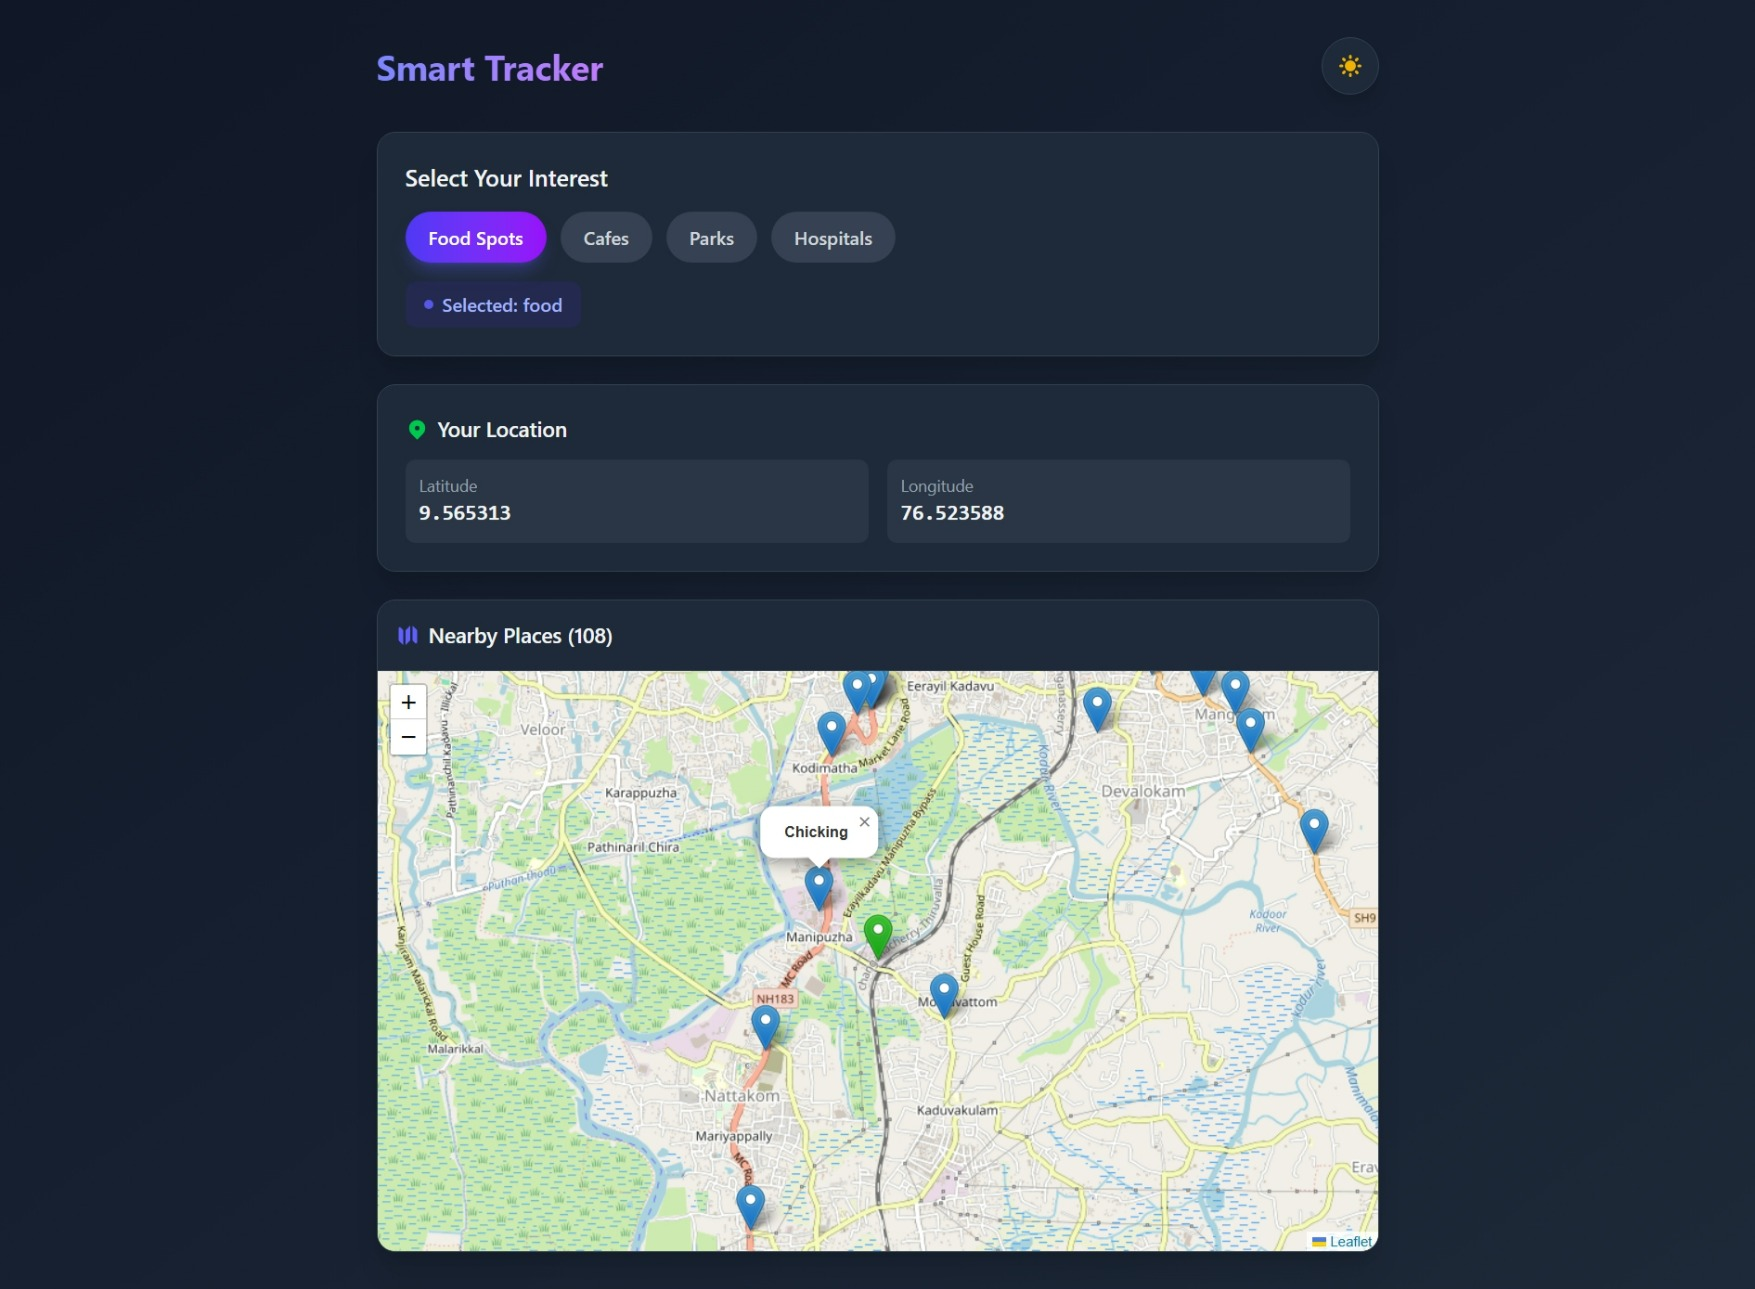
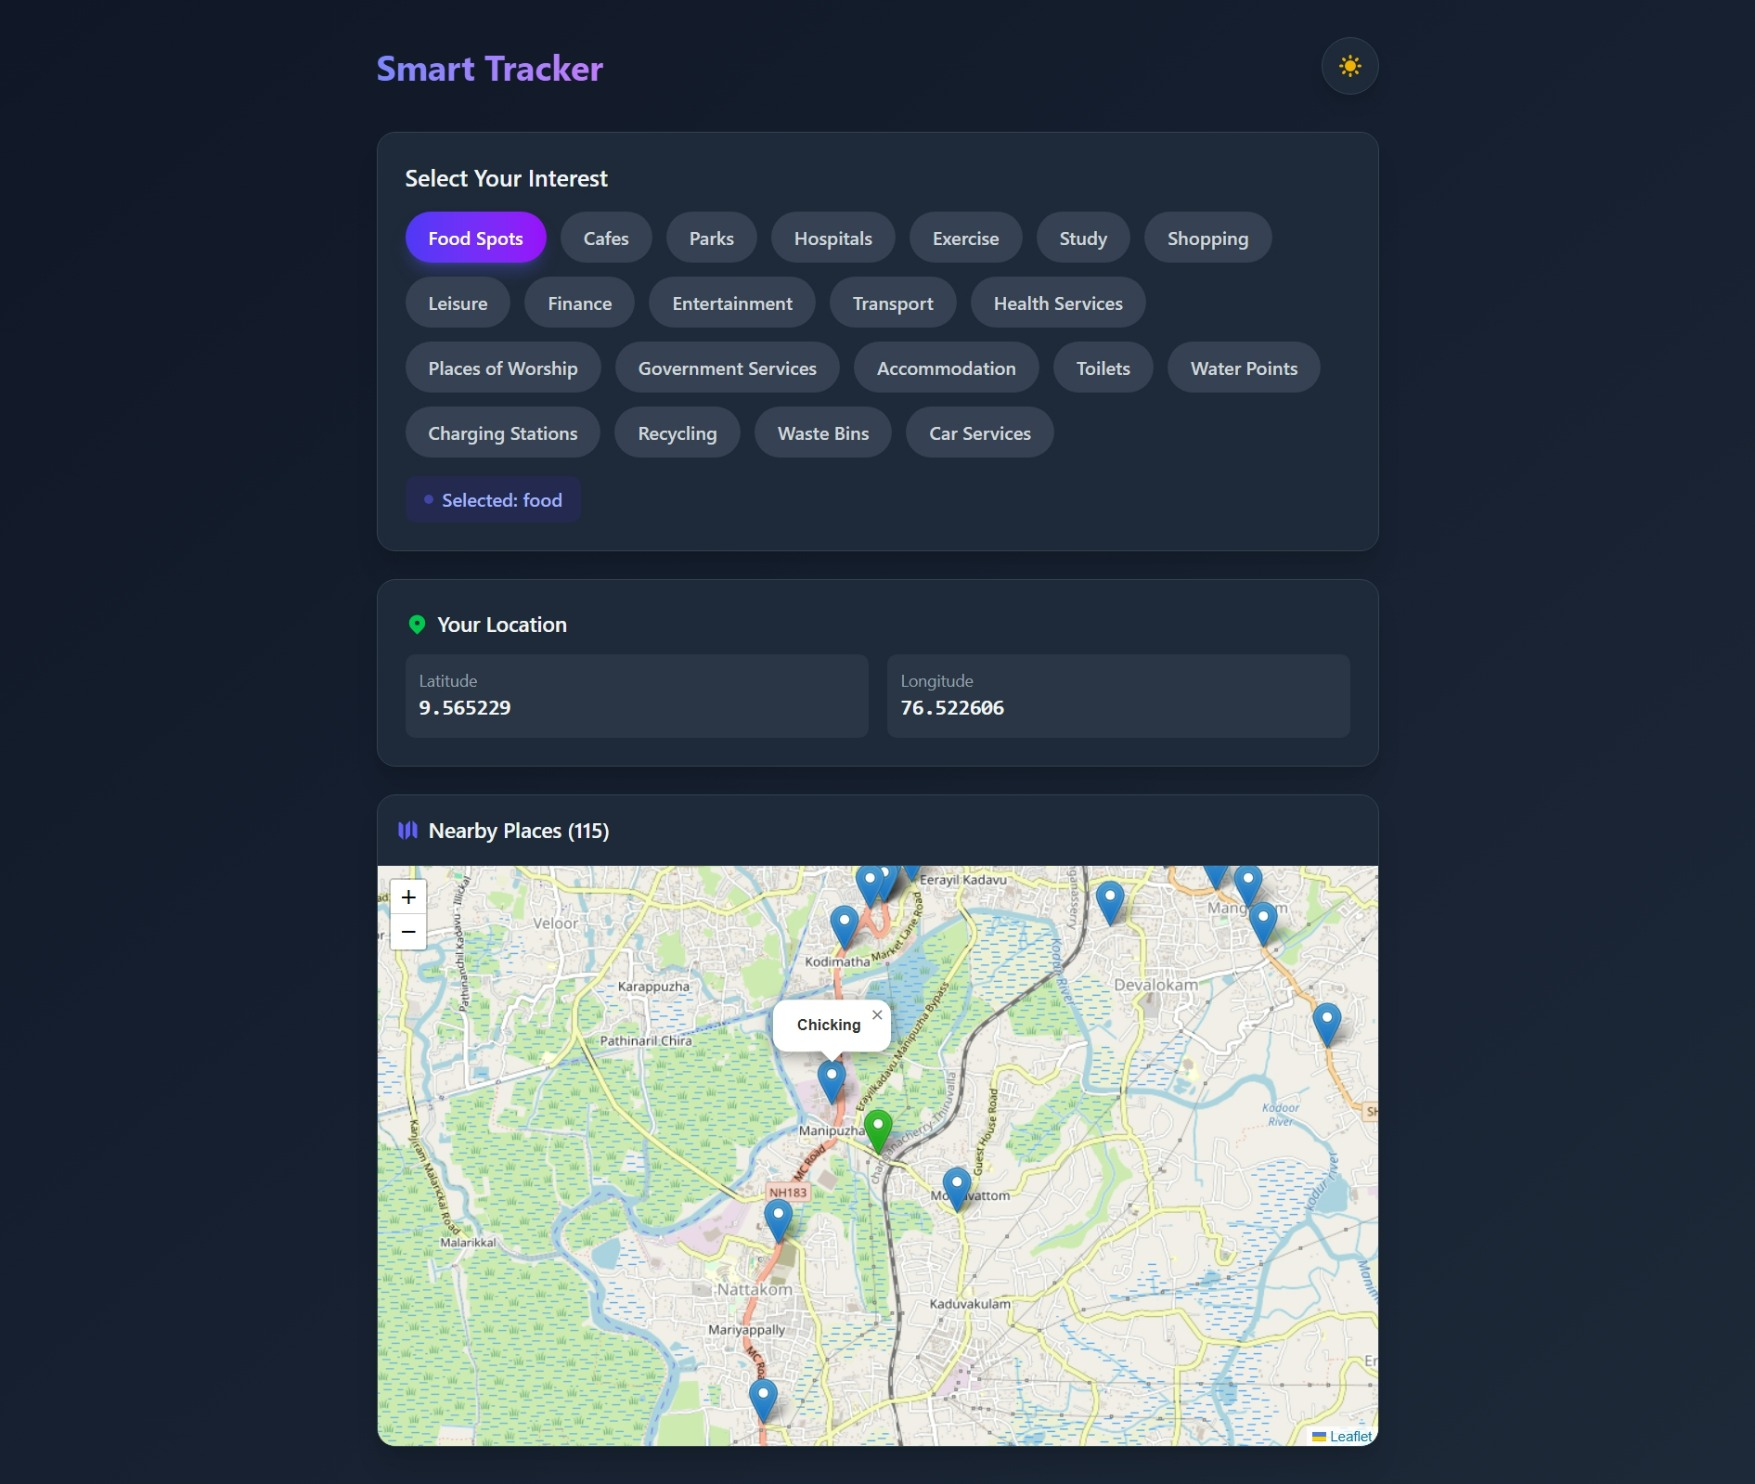
feat: expand interest categories in README and service files for enhanced user options

diff --git a/backend/services/interestMap.js b/backend/services/interestMap.js
@@ -2,9 +2,127 @@ export const INTEREST_TAGS = {
   food: [
     '["amenity"="restaurant"]',
     '["amenity"="fast_food"]',
-    '["amenity"="cafe"]'
+    '["amenity"="cafe"]',
+    '["amenity"="bar"]',
+    '["amenity"="pub"]',
+    '["amenity"="ice_cream"]'
   ],
   cafe: ['["amenity"="cafe"]'],
   park: ['["leisure"="park"]'],
-  hospital: ['["amenity"="hospital"]']
+  hospital: ['["amenity"="hospital"]'],
+  exercise: [
+    '["leisure"="gym"]',
+    '["leisure"="sports_centre"]',
+    '["leisure"="fitness_centre"]',
+    '["leisure"="stadium"]',
+    '["leisure"="swimming_pool"]'
+  ],
+  study: [
+    '["amenity"="library"]',
+    '["amenity"="college"]',
+    '["amenity"="university"]',
+    '["amenity"="school"]'
+  ],
+  shopping: [
+    '["shop"="supermarket"]',
+    '["shop"="mall"]',
+    '["shop"="convenience"]',
+    '["shop"="clothes"]',
+    '["shop"="department_store"]',
+    '["shop"="bakery"]',
+    '["shop"="butcher"]',
+    '["shop"="chemist"]',
+    '["shop"="florist"]',
+    '["shop"="jewelry"]',
+    '["shop"="shoes"]',
+    '["shop"="toys"]',
+    '["shop"="electronics"]',
+    '["shop"="furniture"]',
+    '["shop"="optician"]',
+    '["shop"="sports"]',
+    '["shop"="stationery"]',
+    '["shop"="variety_store"]'
+  ],
+  leisure: [
+    '["leisure"="park"]',
+    '["leisure"="playground"]',
+    '["leisure"="garden"]',
+    '["leisure"="pitch"]',
+    '["leisure"="nature_reserve"]',
+    '["leisure"="water_park"]',
+    '["leisure"="dog_park"]'
+  ],
+  finance: [
+    '["amenity"="bank"]',
+    '["amenity"="atm"]',
+    '["amenity"="bureau_de_change"]'
+  ],
+  entertainment: [
+    '["amenity"="cinema"]',
+    '["amenity"="theatre"]',
+    '["amenity"="nightclub"]',
+    '["amenity"="arts_centre"]',
+    '["amenity"="casino"]'
+  ],
+  transport: [
+    '["amenity"="bus_station"]',
+    '["amenity"="taxi"]',
+    '["amenity"="ferry_terminal"]',
+    '["amenity"="bicycle_rental"]',
+    '["amenity"="car_rental"]',
+    '["amenity"="car_sharing"]',
+    '["amenity"="parking"]',
+    '["amenity"="fuel"]',
+    '["amenity"="charging_station"]'
+  ],
+  health: [
+    '["amenity"="hospital"]',
+    '["amenity"="clinic"]',
+    '["amenity"="pharmacy"]',
+    '["amenity"="dentist"]',
+    '["amenity"="doctors"]',
+    '["amenity"="veterinary"]'
+  ],
+  worship: [
+    '["amenity"="place_of_worship"]',
+    '["amenity"="church"]',
+    '["amenity"="mosque"]',
+    '["amenity"="synagogue"]',
+    '["amenity"="temple"]'
+  ],
+  government: [
+    '["amenity"="townhall"]',
+    '["amenity"="courthouse"]',
+    '["amenity"="police"]',
+    '["amenity"="fire_station"]',
+    '["amenity"="post_office"]',
+    '["amenity"="embassy"]',
+    '["amenity"="community_centre"]'
+  ],
+  accommodation: [
+    '["tourism"="hotel"]',
+    '["tourism"="hostel"]',
+    '["tourism"="motel"]',
+    '["tourism"="guest_house"]',
+    '["tourism"="apartment"]',
+    '["tourism"="camp_site"]',
+    '["tourism"="caravan_site"]'
+  ],
+  toilet: ['["amenity"="toilets"]'],
+  water: [
+    '["amenity"="drinking_water"]',
+    '["amenity"="fountain"]',
+    '["amenity"="water_point"]',
+    '["amenity"="shower"]'
+  ],
+  charging: ['["amenity"="charging_station"]'],
+  recycling: ['["amenity"="recycling"]'],
+  waste: ['["amenity"="waste_basket"]'],
+  car: [
+    '["amenity"="car_wash"]',
+    '["amenity"="car_rental"]',
+    '["amenity"="car_sharing"]',
+    '["amenity"="fuel"]',
+    '["amenity"="parking"]'
+  ]
 };

diff --git a/frontend/services/service.js b/frontend/services/service.js
@@ -2,5 +2,22 @@ export const INTERESTS = [
   { label: "Food Spots", value: "food" },
   { label: "Cafes", value: "cafe" },
   { label: "Parks", value: "park" },
-  { label: "Hospitals", value: "hospital" }
+  { label: "Hospitals", value: "hospital" },
+  { label: "Exercise", value: "exercise" },
+  { label: "Study", value: "study" },
+  { label: "Shopping", value: "shopping" },
+  { label: "Leisure", value: "leisure" },
+  { label: "Finance", value: "finance" },
+  { label: "Entertainment", value: "entertainment" },
+  { label: "Transport", value: "transport" },
+  { label: "Health Services", value: "health" },
+  { label: "Places of Worship", value: "worship" },
+  { label: "Government Services", value: "government" },
+  { label: "Accommodation", value: "accommodation" },
+  { label: "Toilets", value: "toilet" },
+  { label: "Water Points", value: "water" },
+  { label: "Charging Stations", value: "charging" },
+  { label: "Recycling", value: "recycling" },
+  { label: "Waste Bins", value: "waste" },
+  { label: "Car Services", value: "car" }
 ];

diff --git a/README.md b/README.md
@@ -117,6 +117,23 @@ Fetches nearby places based on location and interest.
 - `cafe` - Coffee shops and cafes
 - `park` - Parks and recreational areas
 - `hospital` - Hospitals and medical facilities
+- `exercise` - Gyms, sports centres, swimming pools
+- `study` - Libraries, colleges, universities, schools
+- `shopping` - Supermarkets, malls, convenience and specialty stores
+- `leisure` - Playgrounds, gardens, pitches, nature reserves, water parks
+- `finance` - Banks, ATMs, currency exchange
+- `entertainment` - Cinemas, theatres, nightclubs, arts centres, casinos
+- `transport` - Bus stations, taxi stands, ferries, rentals, parking, fuel, charging
+- `health` - Clinics, pharmacies, dentists, doctors, veterinary
+- `worship` - Churches, mosques, synagogues, temples
+- `government` - Town halls, courthouses, police, fire stations, post offices, embassies
+- `accommodation` - Hotels, hostels, motels, guest houses, apartments, campsites
+- `toilet` - Public toilets
+- `water` - Drinking water, fountains, water points, showers
+- `charging` - EV charging stations
+- `recycling` - Recycling points
+- `waste` - Waste bins
+- `car` - Car wash, rentals, sharing, fuel, parking
 
 **Example:**
 ```
